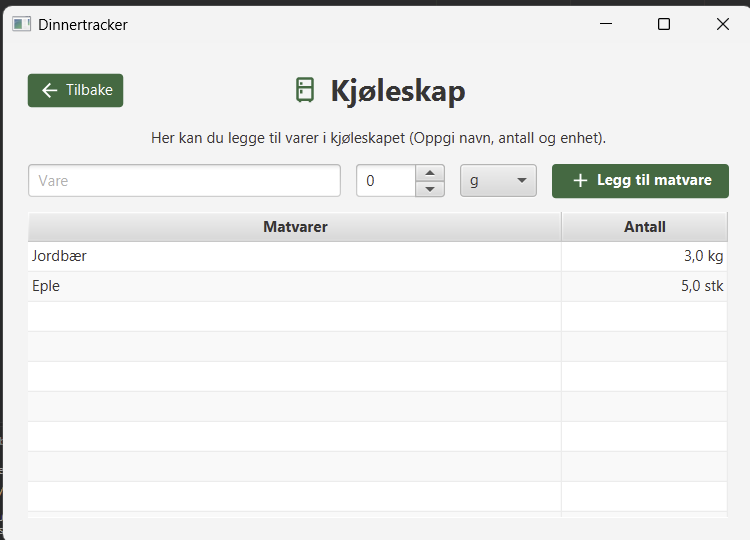
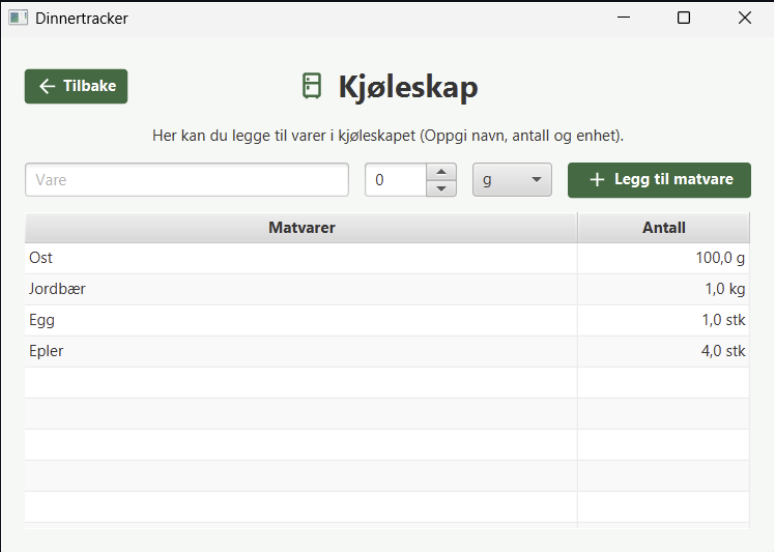
docs: update dinnertracker readme with screenshots etc

diff --git a/dinnertracker/README.md b/dinnertracker/README.md
@@ -4,14 +4,16 @@
 
 Dinnertracker is a dinner planning application developed as part of the IT1901 course at NTNU. It helps users manage dinner recipes and keep track of ingredients available in their fridge. 
 
-The application supports user accounts, login, recipe management, and personal fridge management. Each user can manage their own fridge and the recipes available through the application
+The application supports user accounts, login, recipe management, and personal fridge management. Each user can manage their own fridge and the recipes available through the application.
 
 Dinnertracker is developed in Java and uses JavaFX for the graphical user interface, a REST server for communication between the client and server, and JSON-based persistence for application data.
+
+Release 1 focused mainly on recipe functionality, while Release 2 extended the application with fridge functionality, persistence, testing and a clearer separation between the different parts of the application. The application has since then, been extended with a REST API and further functionality such as sorting recipes based on available ingredients in their own fridge, and visualizing this in addition to a more detailed view of the recipes. 
 
 
 ## Application screenshot
 
-The screenshots below show the application's user interface. They will be updated soon så fort som mulig hehe. 
+The screenshots below show the application's user interface.
 
 
 ![Dinnertracker application login page](images/login.png)
@@ -28,8 +30,17 @@ The screenshots below show the application's user interface. They will be update
 
 *Screenshot of the Dinnertracker application - recipes page.*
 
+![Dinnertracker recipes page](images/pancakes.png)
 
-![Dinnertracker recipes page](images/recipeView.png)
+*Screenshot of the Dinnertracker application - pancake recipe page*
+
+![Dinnertracker recipes page](images/horn.png)
+
+*Screenshot of the Dinnertracker application - horn recipe page*
+
+
+![Dinnertracker recipes page](images/addRecipe1.png)
+![Dinnertracker recipes page](images/addRecipe2.png)
 
 *Screenshot of the Dinnertracker application - add recipe page.*
 
@@ -96,63 +107,55 @@ The intended client-server architecture is illustrated below:
 ```mermaid
 flowchart TD
     USER[User]
-    UI[JavaFX client<br/>UI module]
-    REST[REST server<br/>REST module]
-    CORE[Core module]
-    PERSISTENCE[Persistence module]
-    DATA[(JSON data files)]
+    UI["JavaFX client<br/>UI module"]
+    REST["REST server<br/>Spring Boot"]
+    CORE["Core module<br/>Domain logic"]
+    PERSISTENCE["Persistence module"]
+    JSON[("JSON data files")]
 
     USER --> UI
-    UI <-->|HTTP requests and responses| REST
+    UI <-->|HTTP requests and JSON responses| REST
     REST --> CORE
     REST --> PERSISTENCE
-    PERSISTENCE --> DATA
+    PERSISTENCE <--> JSON
+    PERSISTENCE --> CORE
 ```
 
-The JavaFX client communicates with the REST server, which connects incoming requests to the application's core logic and persistence layer.
+The application is structured so that the JavaFX user interface communicates with the REST API, while the REST module uses the core and persistence modules to handle application logic and data.
+
+This separation makes the application's domain logic independent of the user interface and the way data is stored.
 
 More detailed information about the architecture and design can be found in the [Release 3 documentation](../docs/release3/).
 
 
-
-## Building and testing
-
-Dinnertracker uses Maven to manage dependencies, build the application, and run automated tests. 
-
-From the `dinnertracker/` directory, run the following commands.
-
-### Run tests
-
-```bash
-mvn test
-```
-
-### Verify the project
-
-```bash
-mvn verify
-```
-
-The verification phase runs the configured tests and code quality checks. It also checks the configured test coverage requirements.
-
 ### Generate JaCoCo reports
 
 ```bash
+mvn verify
 mvn jacoco:report
 ```
 
-JaCoCo is used to measure test coverage. The project configuration sets minimum thresholds of:
+JaCoCo is used to measure test coverage and enforce minimum coverage thresholds during the Maven verification phase. The project configuration sets minimum thresholds of:
 
 - 80% line coverage
 - 70% branch coverage
 
-The generated reports are available in the relevant modules' `target/site/jacoco/` directories. An aggregated report may also be available under `target/site/jacoco-aggregate/`, depending on the Maven configuration.
+The generated reports are available in the relevant modules' `target/site/jacoco/` directories. An aggregated report may also be available under `target/site/jacoco-aggregate/`, depending on the Maven configuration. The aggregated report provides an overview of test coverage across the modules.
 
-## Running the application
 
-The application consists of a JavaFX client and a REST server. The server must be running and accessible to the client for REST-based functionality to work.
+## Application data
 
-The REST server is configured to use port `7070`. The exact startup commands and access to the server should be verified against the final Maven configuration and development environment.
+Application data is stored as JSON files in the `data/` directory.
+
+The project currently uses the following files:
+
+- `recipes.json` – stores recipe data.
+
+- `fridges.json` – stores fridge data.
+
+- `users.json` – stores user data.
+
+
 
 ## Development environment
 
